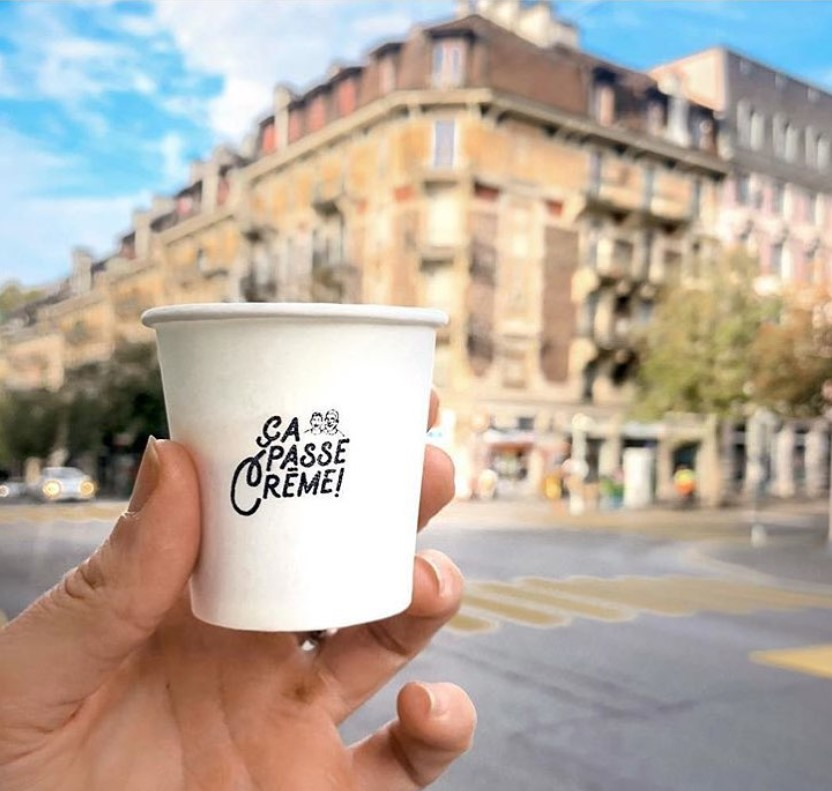
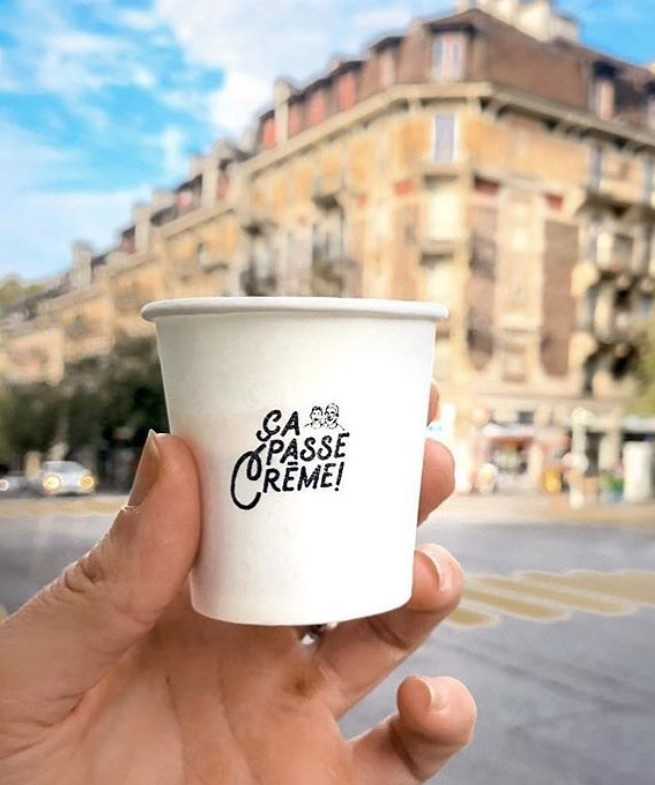
resize carousel photos

diff --git a/index.html b/index.html
@@ -52,11 +52,11 @@
             </div>
         </section>
         <section id="info">
-            <h2 class="heading">About us</h2>
+            <h2 class="heading">ABOUT US</h2>
             <p>The best service, satisfied customers, delicious coffee from the most exotic countries and a wide range of drinks and desserts - that's all about us! Come to Ça Passe Crème and see for yourself. Wir warten auf Sie :)</p>
         </section>
         <section id="contact">
-            <h2 class="heading">Find us</h2>
+            <h2 class="heading">FIND US</h2>
             <div id="map">
                 <iframe  src="https://www.google.com/maps/embed?pb=!1m18!1m12!1m3!1d2745.581951037183!2d6.622915876724898!3d46.516384962623114!2m3!1f0!2f0!3f0!3m2!1i1024!2i768!4f13.1!3m3!1m2!1s0x478c2f3f021908c3%3A0x18601545e2a915a4!2zw4dBIFBBU1NFIENSw4hNRSAh!5e0!3m2!1ses!2ses!4v1668256409698!5m2!1ses!2ses" width="100%" height="500" style="border:0;" allowfullscreen="" loading="lazy" referrerpolicy="no-referrer-when-downgrade"></iframe>
             </div>

diff --git a/styles.scss b/styles.scss
@@ -5,6 +5,11 @@
     src: url(fonts/Gemosh\ Headline\ Regular.ttf);
 }
 
+@font-face {
+    font-family: Gnuolane;
+    src: url(fonts/gnuolane\ rg.otf);
+}
+
 //COLOR PALETTE
 $white: #ffffff;
 $orange: #e97122;
@@ -111,22 +116,23 @@ header{
     text-align: center;
 }
 h1{
-    font-size: 2.2rem;
+    font-size: 3rem;
     margin-top: 6rem;
 }
 .heading{
     color: #ca6725;
-    font-weight: 900;
+    font-family: 'Gnuolane';
 }
 
 h2{
-    font-size: 1.2rem;
+    font-size: 2rem;
     text-align: center;
     margin-top: 10rem;
     margin-bottom: 20px;
 }
 h3{
     margin-top: 1rem;
+    font-size: 1.5rem;
 }
 
 .row-to-column{
@@ -206,6 +212,9 @@ h3{
     }
     section{
         margin-top: 50px;
+    }
+    main{
+        width: 70%;
     }
 
     #info{

diff --git a/styles.css b/styles.css
@@ -2,6 +2,10 @@
   font-family: Gemosh;
   src: url(fonts/Gemosh\ Headline\ Regular.ttf);
 }
+@font-face {
+  font-family: Gnuolane;
+  src: url(fonts/gnuolane\ rg.otf);
+}
 html {
   font-size: 20px;
 }
@@ -100,17 +104,17 @@ header ul li i {
 }
 
 h1 {
-  font-size: 2.2rem;
+  font-size: 3rem;
   margin-top: 6rem;
 }
 
 .heading {
   color: #ca6725;
-  font-weight: 900;
+  font-family: "Gnuolane";
 }
 
 h2 {
-  font-size: 1.2rem;
+  font-size: 2rem;
   text-align: center;
   margin-top: 10rem;
   margin-bottom: 20px;
@@ -118,6 +122,7 @@ h2 {
 
 h3 {
   margin-top: 1rem;
+  font-size: 1.5rem;
 }
 
 .row-to-column {
@@ -188,6 +193,9 @@ h3 {
   }
   section {
     margin-top: 50px;
+  }
+  main {
+    width: 70%;
   }
   #info p {
     width: 100%;
